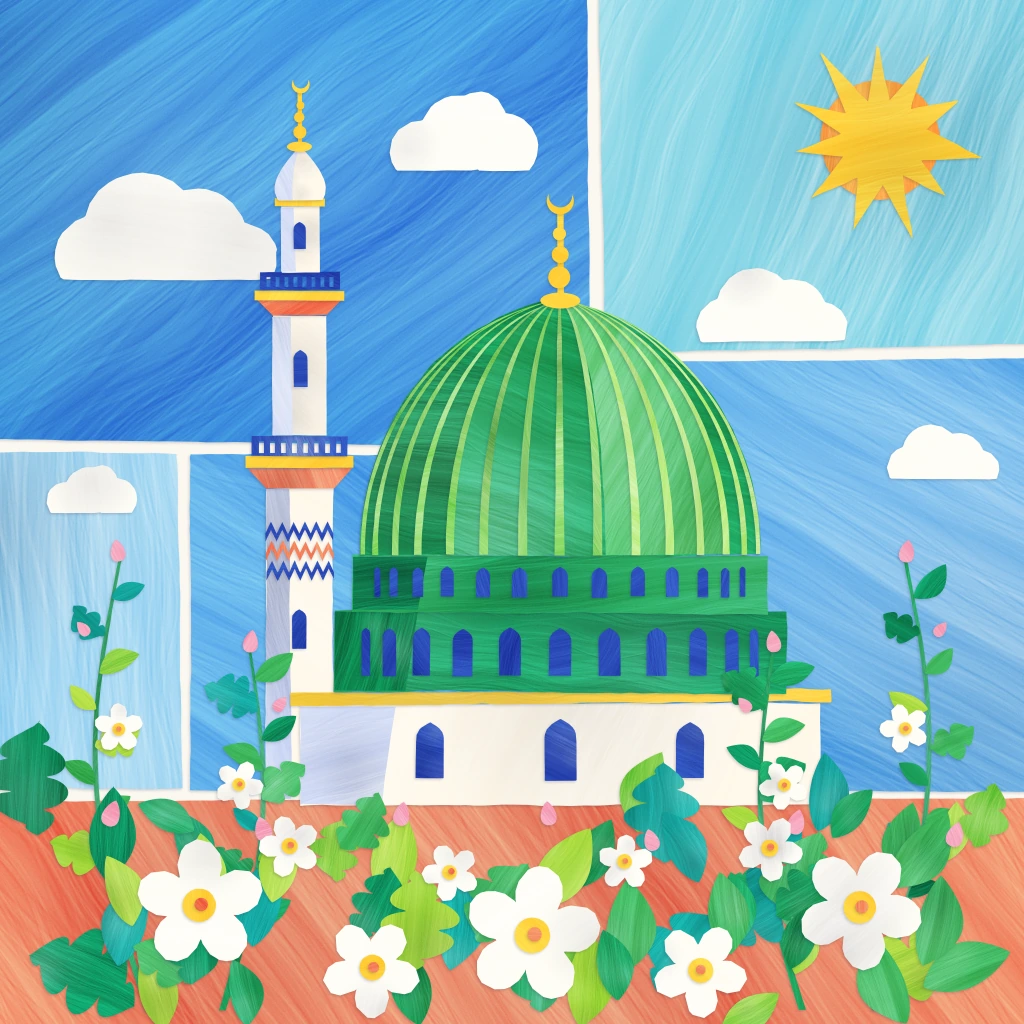
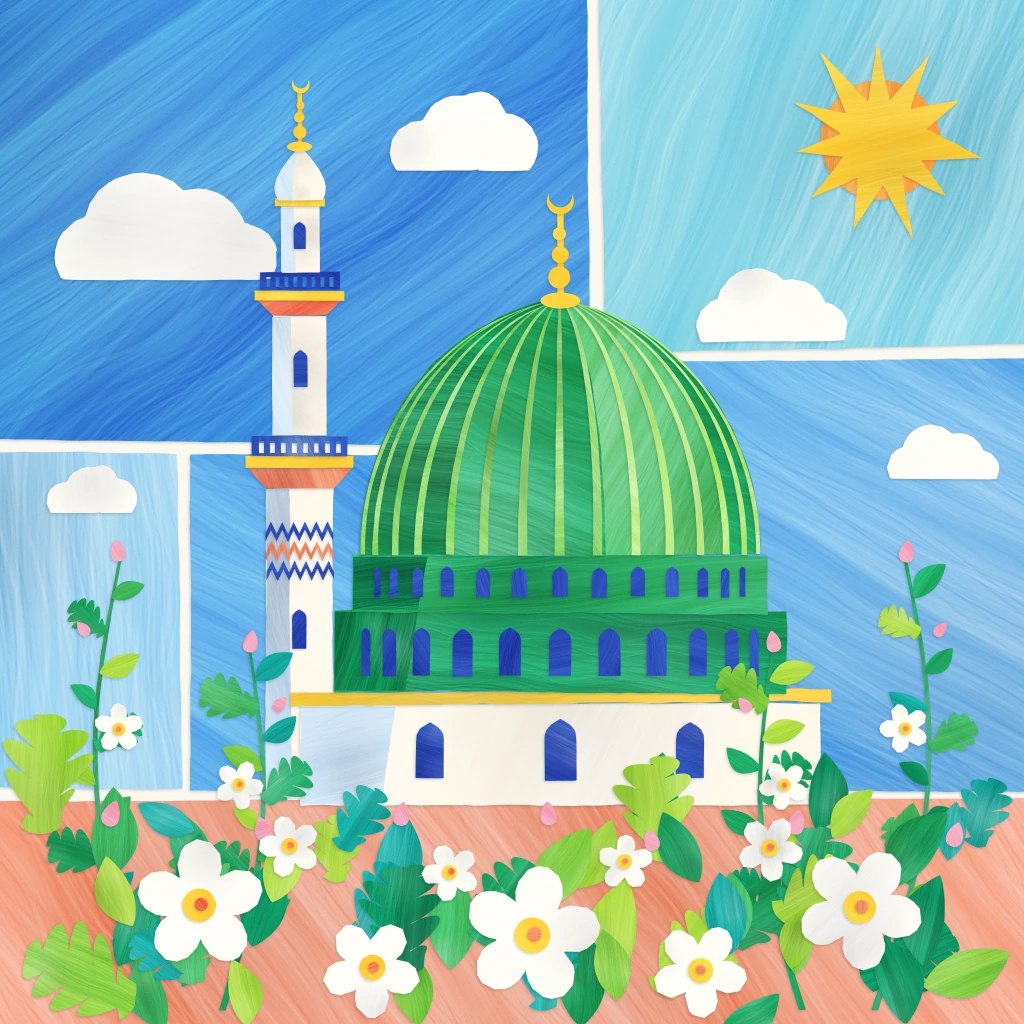
Atölye: üçüncü tur çalışmalarının ara kaydı
Claude-Session: https://claude.ai/code/session_01Q8CfoBGMPN7gfLWQYpMs1J

Changed region(s): [[0.0, 0.5625, 1.0, 1.0], [0.8438, 0.5312, 0.9375, 0.625], [0.9062, 0.625, 0.9375, 0.6562]]

diff --git a/atolye/stiller/S-106-kesik-kagit/ornek.html b/atolye/stiller/S-106-kesik-kagit/ornek.html
@@ -236,7 +236,7 @@
   PP([[600, -30], [1054, -30], [1054, 346], [604, 352]], { renk: TURKUAZ, olcek: 0.9, dalga: 1.4 }, 3);
   PP([[-30, 452], [178, 455], [182, 790], [-30, 788]], { renk: ACIK, olcek: 0.9, dalga: 1.4 }, 3);
   PP([[190, 456], [600, 456], [612, 362], [1054, 356], [1054, 790], [192, 792]], { renk: MAVI2, olcek: 0.9, dalga: 1.4 }, 3);
-  PP([[-30, 800], [1054, 798], [1054, 1054], [-30, 1054]], { renk: MERCAN, olcek: 0.9, dalga: 1.4 }, 3);
+  PP([[-30, 800], [1054, 798], [1054, 1054], [-30, 1054]], { renk: '#FA9C7C', olcek: 0.9, dalga: 1.4 }, 3);
 
   // güneş: limon sarısı, düzensiz uçlu makas yıldızı; arkasında mercan daire
   PK(polar(880, 140, () => 60, 140), { renk: '#FF9B3D', olcek: 0.45 });
@@ -277,7 +277,7 @@
   bulut(165, 252, 1.15, 0); bulut(470, 150, 0.9, 1); bulut(772, 322, 0.78, 0); bulut(96, 500, 0.55, 1); bulut(942, 466, 0.58, 0);
 
   // ------------------------------------------------------------ minare
-  const BEYAZ = '#FFF8EA', GOLGE = '#D3DCF6';
+  const BEYAZ = '#FFF8EA', GOLGE = '#D2E7F8';
   const mc = 300;
   for (const p of S.minareParcalari()) {
     if (p.tip === 'alem') continue;
@@ -378,26 +378,32 @@
     PP(sol.concat(sag.reverse()), { renk: '#1C9A55', olcek: 0.3, faset: 4, dalga: 0.6 }, 2);
   }
   const yRenk = ['#1C9E5A', '#7DCB3E', '#14A39A', '#3DB45A', '#A6D93E', '#0E8C5A'];
+  // Matisse yosun yaprağı: ortada bir eksen, iki yanda sırayla dizilmiş, uca doğru eğilen yuvarlak uçlu
+  // parmak loblar ve aralarında derin makas çentikleri; diğerleri sade sivri uçlu yapraklar.
   function yaprakSekli(y, i) {
     const lob = i % 3 === 1;
-    const olc = lob ? 1.32 : y.uzunluk > 50 ? 1.15 : 1.06;
-    const L = y.uzunluk * olc, W = L * (lob ? 0.42 : 0.27);
+    const olc = lob ? 1.38 : y.uzunluk > 50 ? 1.15 : 1.06;
+    const L = y.uzunluk * olc, W = L * (lob ? 0.44 : 0.27);
     const ca = Math.cos(y.aci), sa = Math.sin(y.aci);
     const egri = (rnd() - 0.5) * 0.25;
-    const nl = 2.5 + Math.floor(rnd() * 2), ph = rnd() * 0.5;
+    const nl = 3.6 + Math.floor(rnd() * 2) * 0.8, ph = 0.15 + rnd() * 0.2;
+    const egim = 0.6 + rnd() * 0.3; // lobların uca doğru eğilmesi
     const pts = [];
-    const N = 90;
-    const wf = (t, taraf) => {
-      let w = W * Math.pow(Math.sin(Math.PI * Math.min(1, t * 1.02)), 0.8) * (1 - 0.2 * t);
-      if (lob) {
-        const f = t * nl + (taraf > 0 ? ph : ph + 0.45);
+    const N = lob ? 180 : 90;
+    const zarf = (t) => Math.pow(Math.sin(Math.PI * Math.min(1, t * 1.02)), lob ? 0.55 : 0.8) * (1 - (lob ? 0.3 : 0.2) * t);
+    const nokta = (t, taraf) => {
+      let w = W * zarf(t), u = t * L;
+      if (lob && t > 0.06) {
+        const f = t * nl + (taraf > 0 ? ph : ph + 0.5);
         const q = 2 * (f - Math.floor(f)) - 1;
-        w *= 0.32 + 0.68 * Math.sqrt(Math.max(0, 1 - q * q));
+        const lp = Math.sqrt(Math.max(0, 1 - q * q));
+        w *= 0.13 + 0.87 * Math.pow(lp, 0.8);
+        u += egim * w * (1 - t * 0.5);
       }
-      return w;
+      return [u, taraf * w + egri * Math.sin(Math.PI * t) * L];
     };
-    for (let k = 0; k <= N; k++) { const t = k / N; pts.push([t * L, -wf(t, -1) + egri * Math.sin(Math.PI * t) * L]); }
-    for (let k = N - 1; k > 0; k--) { const t = k / N; pts.push([t * L, wf(t, 1) + egri * Math.sin(Math.PI * t) * L]); }
+    for (let k = 0; k <= N; k++) pts.push(nokta(k / N, -1));
+    for (let k = N - 1; k > 0; k--) pts.push(nokta(k / N, 1));
     return pts.map(([u, v]) => [y.x + u * ca - v * sa, y.y + u * sa + v * ca]);
   }
   bit.yapraklar.forEach((y, i) => {

diff --git a/atolye/stiller/S-100-islak-kagida-murekkep/ornek.html b/atolye/stiller/S-100-islak-kagida-murekkep/ornek.html
@@ -109,12 +109,14 @@
     for (let j = 0; j < W; j++) {
       for (let i = 0; i < W; i++) {
         const x = (i / W) * 1024, y = (j / W) * 1024;
-        let w = fbm(n1, x * 0.0045 + 11, y * 0.0045 + 3) - 0.47;
-        // lavinin daha geç kuruduğu yerler: kubbenin sol yanı, ufuk, öndeki çiçek kümeleri, bulut altları
-        const blob = (cx, cy, r, g) => g * Math.max(0, 1 - Math.hypot(x - cx, y - cy) / r);
-        w += blob(450, 470, 170, 0.5) + blob(250, 640, 140, 0.35) + blob(150, 960, 170, 0.35) + blob(900, 960, 160, 0.3) + blob(170, 270, 120, 0.35) + blob(770, 350, 120, 0.3) + blob(560, 960, 140, 0.25);
-        w -= blob(640, 360, 120, 0.45) + blob(300, 160, 110, 0.5) + blob(560, 240, 70, 0.8) + blob(560, 740, 120, 0.4);
-        v[j * W + i] = Math.max(0, Math.min(1, (w + 0.1) * 2.4));
+        // kâğıdın büyük kısmı kurumuş; mürekkep yalnız seçilmiş, hâlâ ıslak lavili yerlerde dağılır
+        let w = (fbm(n1, x * 0.006 + 11, y * 0.006 + 3) - 0.5) * 0.5 - 0.25;
+        const blob = (cx, cy, rx, ry, g) => g * Math.max(0, 1 - Math.hypot((x - cx) / rx, (y - cy) / ry));
+        // kubbenin gölgeli sol yanı (koyu yeşil ıslak-ıslağa leke), minaredeki zikzak, iki yandaki yaprak kümeleri
+        w += blob(440, 455, 85, 120, 1.25) + blob(300, 552, 40, 42, 1.3);
+        w += blob(120, 955, 150, 115, 1.05) + blob(905, 905, 125, 135, 1.1) + blob(80, 690, 70, 110, 0.75);
+        w += blob(255, 700, 55, 80, 0.6) + blob(790, 700, 50, 70, 0.55) + blob(150, 805, 160, 22, 0.8);
+        v[j * W + i] = Math.max(0, Math.min(1, w * 1.6));
       }
     }
     const c = S.yeniTuval(W, W);
@@ -232,6 +234,7 @@
   const CEK = yeni(); // çekirdek (keskin) çizgiler
   const TUY = yeni(); // tüylenecek geniş kopya
   const LIF = yeni(); // ıslak kâğıtta liflere sızan ince saçaklar
+  const KURU = yeni(); // lavi kuruduktan sonra çekilmiş, her zaman keskin çizgiler (ana yapı)
   const rT = S.rng(4242);
   let mTohum = 1;
   /** Daldırma uçlu kalem/ince fırça çizgisi: basınca göre kalınlık değişir, uçlar incelir, yer yer kesilir. */
@@ -242,7 +245,8 @@
     if (n < 2) return;
     let L = 0;
     const top = pts.reduce((s, q, i) => (i ? s + Math.hypot(q[0] - pts[i - 1][0], q[1] - pts[i - 1][1]) : 0), 0) || 1;
-    for (const [h, carp] of [[CEK.h, 1], [TUY.h, (o.tuy === undefined ? 3.2 : o.tuy) * (0.7 + 0.8 * n4(faz, 2))]]) {
+    const katmanlar = o.kuru ? [[KURU.h, 1]] : [[CEK.h, 1], [TUY.h, (o.tuy === undefined ? 3.2 : o.tuy) * (0.7 + 0.8 * n4(faz, 2))]];
+    for (const [h, carp] of katmanlar) {
       h.strokeStyle = renk;
       L = 0;
       for (let i = 1; i < n; i++) {
@@ -262,6 +266,7 @@
         h.stroke();
       }
     }
+    if (o.kuru) return;
     // ıslak yerde: çizgiden liflere sızan saçaklar ve kalemin durduğu yerde yumuşak yayılma bulutları
     const lh = LIF.h;
     lh.strokeStyle = renk;
@@ -312,7 +317,7 @@
   }
   /** Öndeki biçimin arkasında kalan çizgileri sil (ressam sırası). */
   function ortu(yol) {
-    for (const h of [CEK.h, TUY.h, LIF.h]) {
+    for (const h of [CEK.h, TUY.h, LIF.h, KURU.h]) {
       h.save();
       h.globalCompositeOperation = 'destination-out';
       h.fillStyle = '#000';
